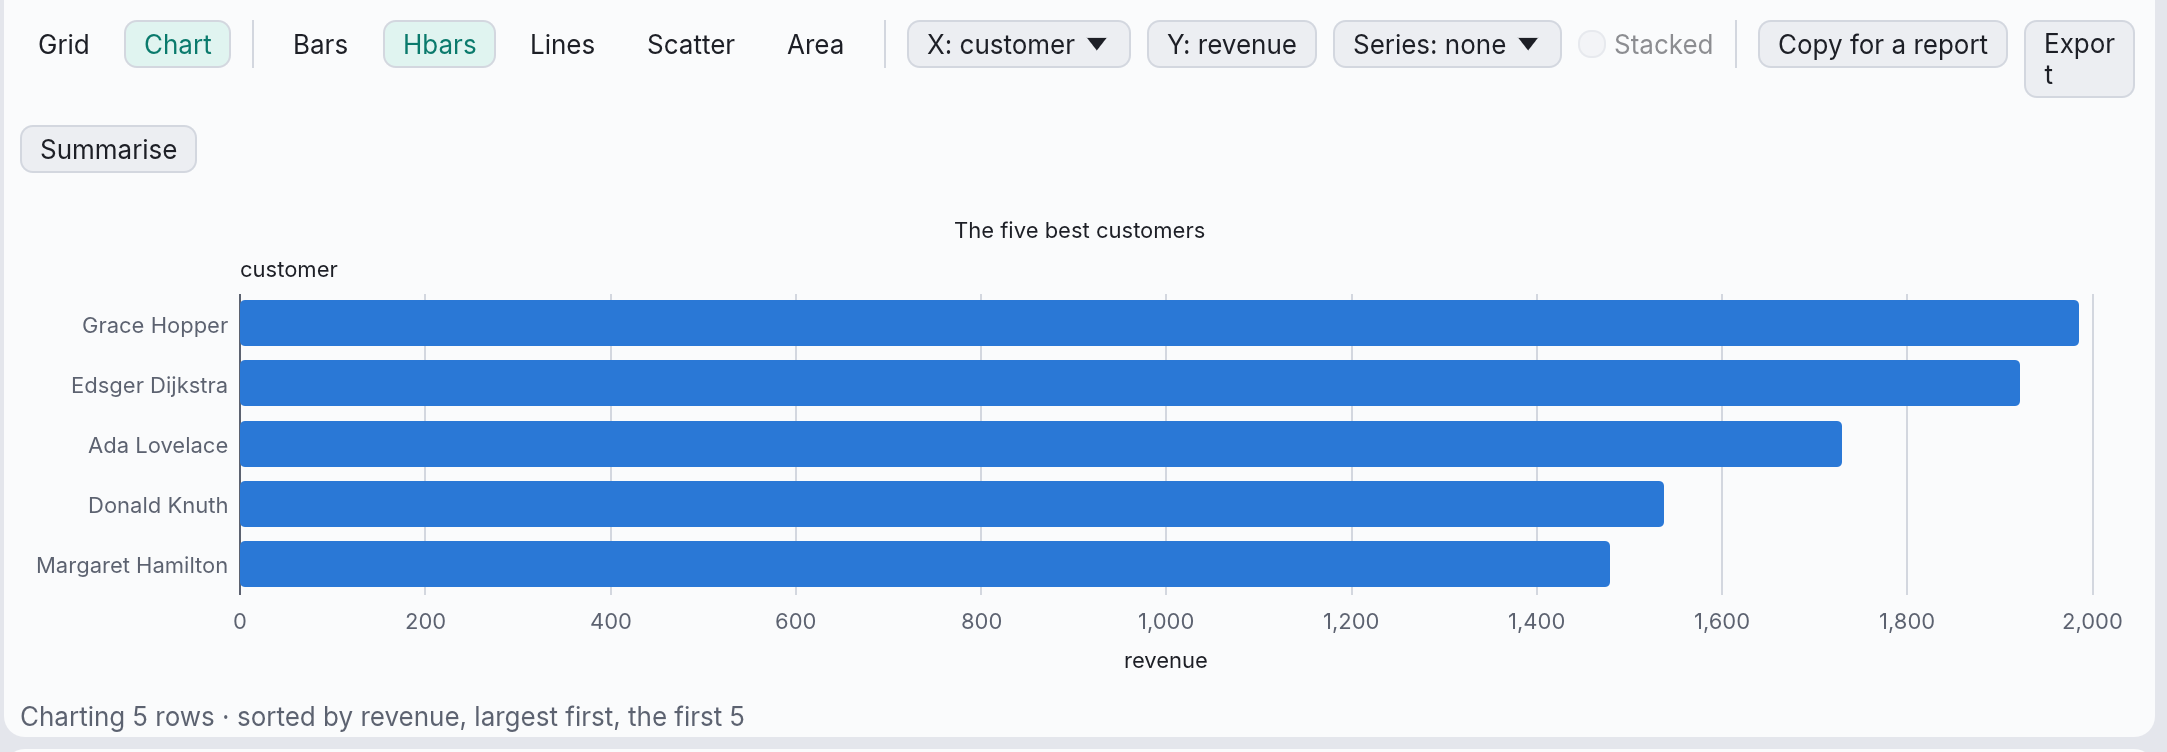
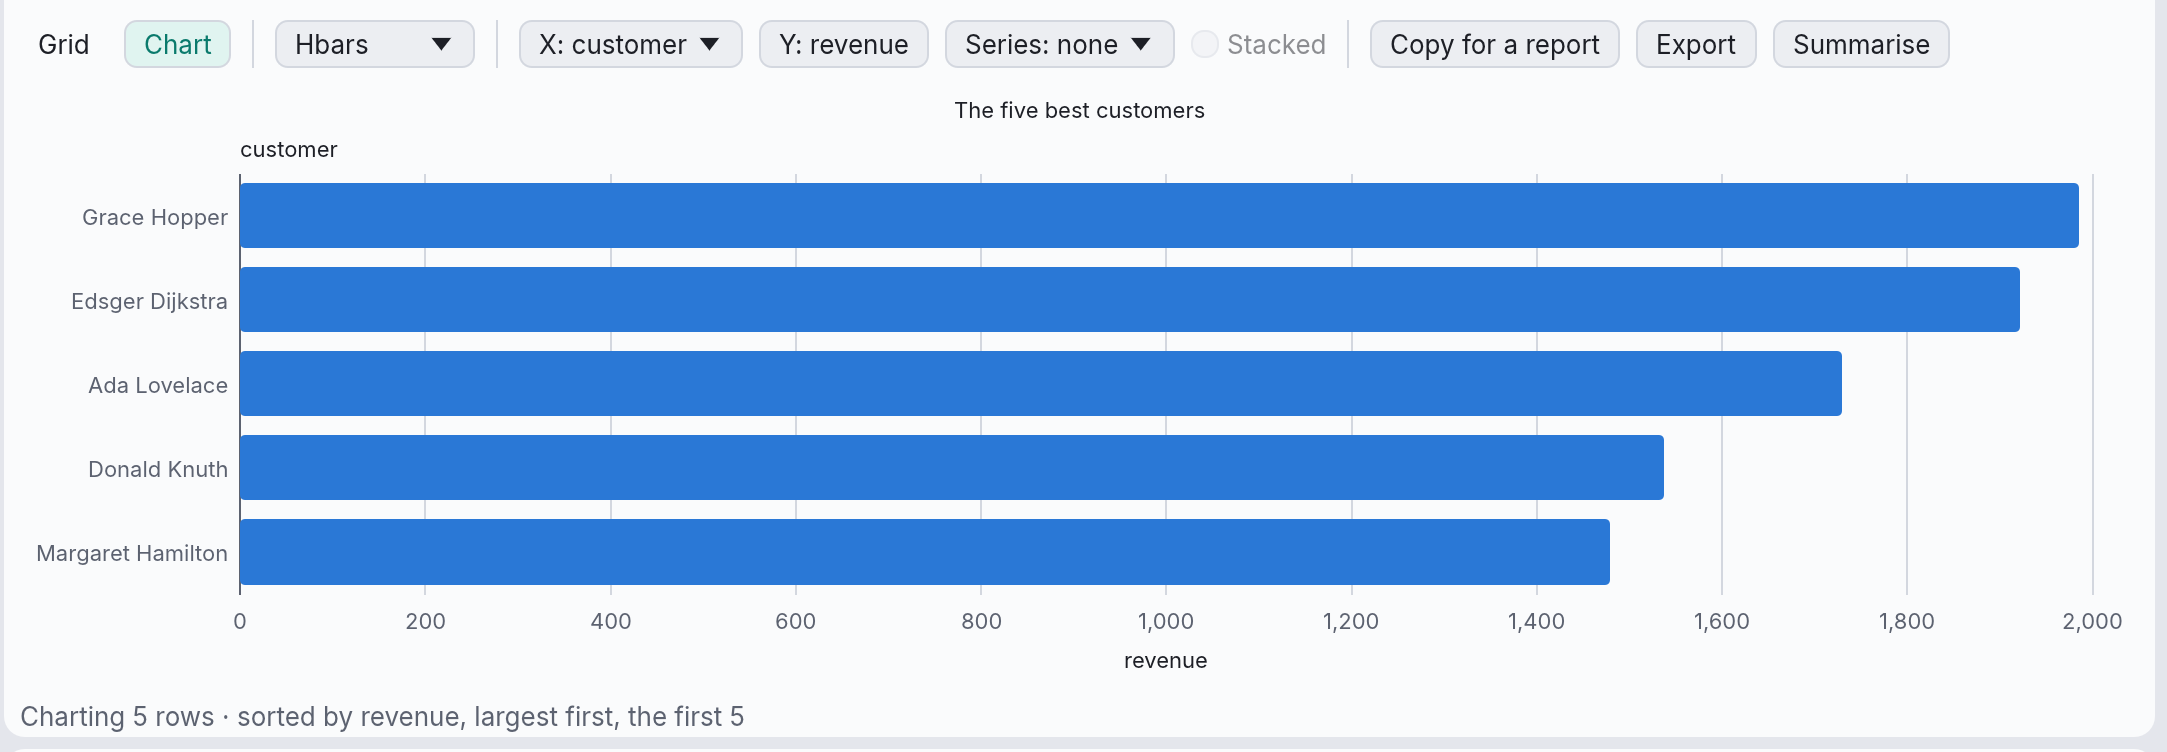
docs(book): the gallery and CH5 confirmed after the kinds became a picker
The three new chart pictures are rendered again: with the kinds behind one
picker the toolbar is a single row, so the **Export** button that wrapped
mid-word in them no longer does, and each chart gets the height the second
row was taking.

CH5 confirmed records the toolbar decision with its measurements and the
alternatives that were weighed and rejected, and the departures are six
rather than five.

diff --git a/docs/charts-as-code.md b/docs/charts-as-code.md
@@ -987,7 +987,8 @@ tested on its own, with synthetic data only (the SQLite shop of `examples/report
 #### CH5 confirmed
 
 Built on 2026-11-17, after RS7g, in seven pull requests off `main`. The plan stands; building it
-settled these details, and departed from it in five places, each noted below.
+settled these details, and departed from it in six places, each noted below — one of them a layer the plan
+didn't have.
 
 - **The extents, and the frame.** The layout named its two directions after the axes they
   happened to be. They are now the *value* extent and the *category* extent, and every mark goes
@@ -1032,6 +1033,19 @@ settled these details, and departed from it in five places, each noted below.
   landed: on a log axis the mean of the values is not the mean of their positions. The note's
   basis comes before the gaps it skipped, so the clause reads as one while the basis is still
   always named.
+- **The toolbar had room for one more item, and CH5 adds three.** An unplanned layer between
+  CH5e and CH5f turns the five kind buttons into one picker reading `Bars`, in the same idiom as
+  the X, Y and Series pickers beside it. Measured at the window the app opens with, charting
+  three months with no `[chart]` block — the crowded case, since that toolbar also carries
+  **Save to query**: five kinds and Summarise gave the chart 96 points and a plot of 23, and
+  drew nothing at all; one picker gives it 160 and a plot of 87, and draws its bars. The cost is
+  a click to change kind where there was none; the gain is that the next kind costs nothing,
+  which a row of buttons never had. Weighed and rejected: an overflow menu for **Save to
+  query**, **Copy for a report**, **Export ›** and **Summarise ›**, which hides the actions a
+  reader is looking for; two rows by design, which spends the height on every chart to serve the
+  crowded one; and icons for the kinds, which trades a word everyone reads for a glyph they have
+  to learn. `MIN_PLOT_SIDE` is left alone: a plot of 23 points really can't be drawn, and the
+  floor saying so is not what went wrong.
 - **A GitHub Linux runner has no GPU,** and `egui_kittest`'s only renderer is a wgpu one, so
   CH5c's comparison of a band's two fills uses `egui::epaint::Tessellator` on the CPU — the same
   `Shape::convex_polygon` calls the painter makes, with feathering off — against resvg's

diff --git a/docs/roadmap.md b/docs/roadmap.md
@@ -3092,12 +3092,13 @@ is added. It came after CI fixes, the reports track and W13.
   "mean"]` draws two dashed lines in the series' colour over its solid one, under
   "Charting 55 rows · Trend and mean over those 55 rows, by day"; the same spec with `limit` in
   a report is a problem in the file, which `dbrover report run` exits 3 on before anything
-  starts. Departures from the design: five, each small and each written down in
+  starts. Departures from the design: six, each written down in
   [CH5 confirmed](charts-as-code.md#ch5-confirmed) — decade ticks taking how many labels fit
   rather than a decade count, the cross-platform guard being a `const` rather than a second
   example chart, `colours` taking a single colour as a list of one, **Copy the SQL** being a
-  toggle rather than a menu item, and a moving average longer than the chart being a sentence in
-  the note rather than a key problem. Covered by the chart crate's own tests, the SQL crate's
+  toggle rather than a menu item, a moving average longer than the chart being a sentence in
+  the note rather than a key problem, and the toolbar's five kind buttons becoming one picker
+  when the row they were a part of ran out of width. Covered by the chart crate's own tests, the SQL crate's
   per-dialect snapshots, the report crate's file problems and limits, and six kittests on the
   shop, one per layer's exit.
 
